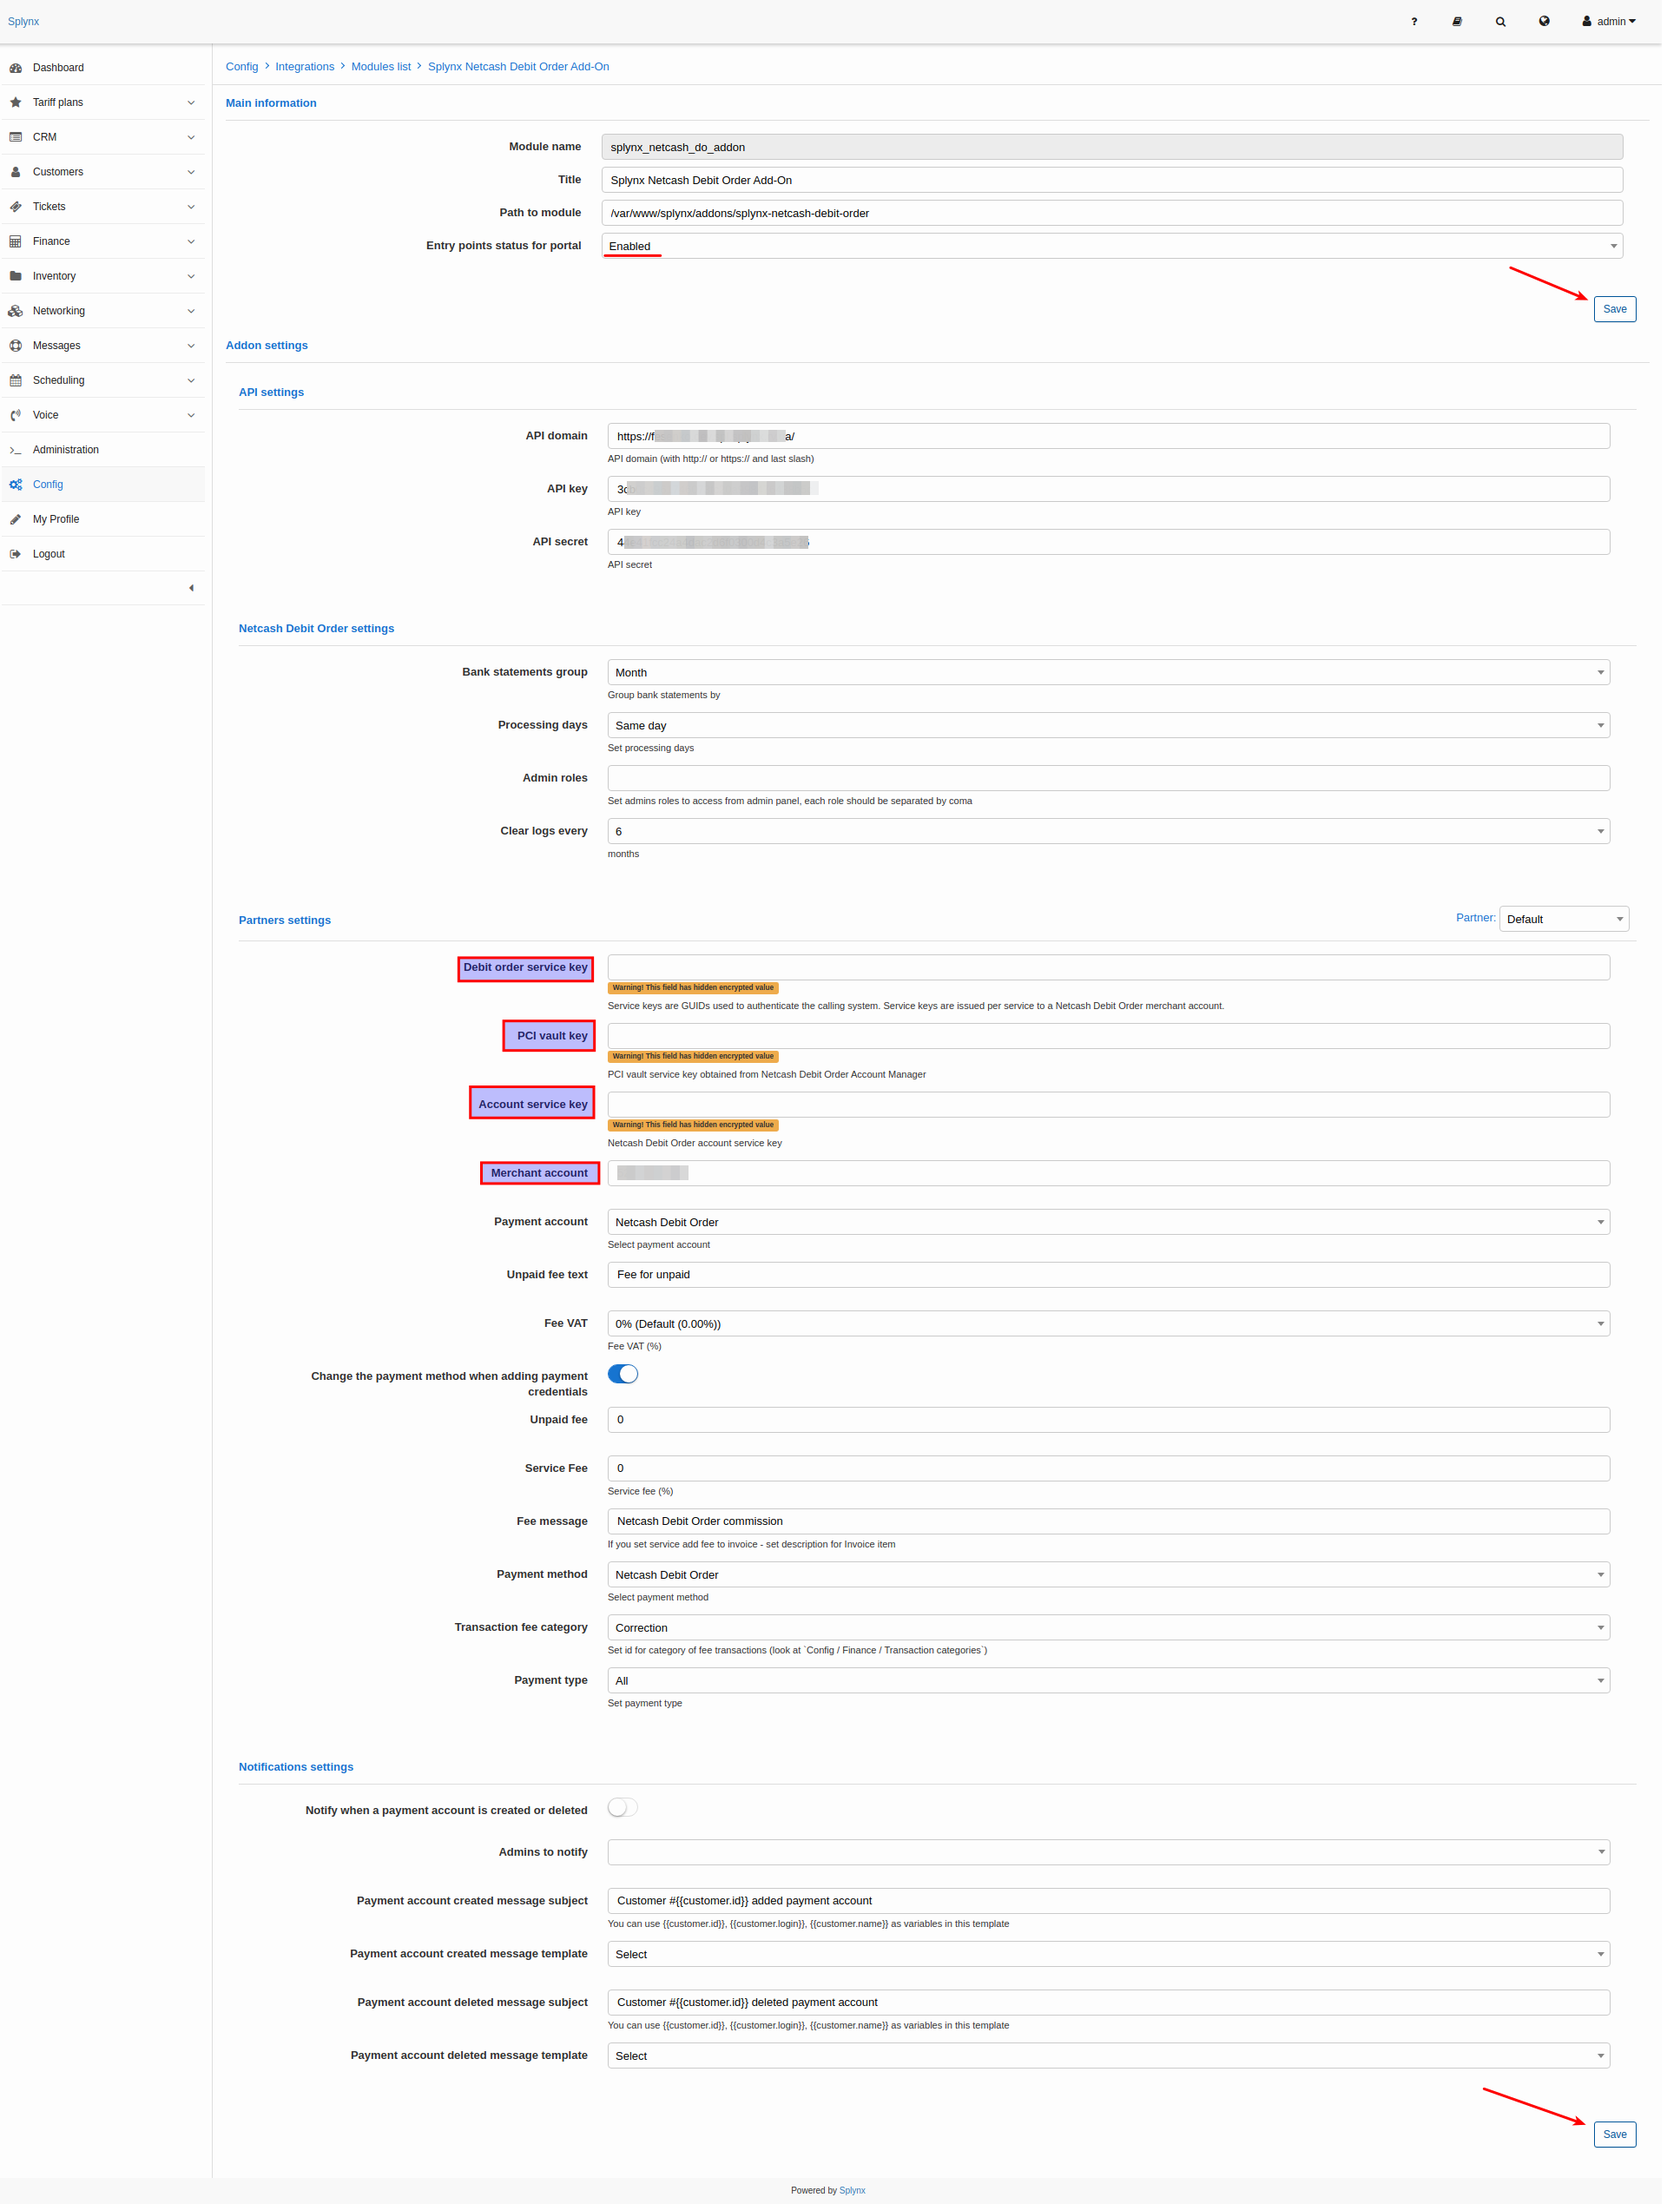
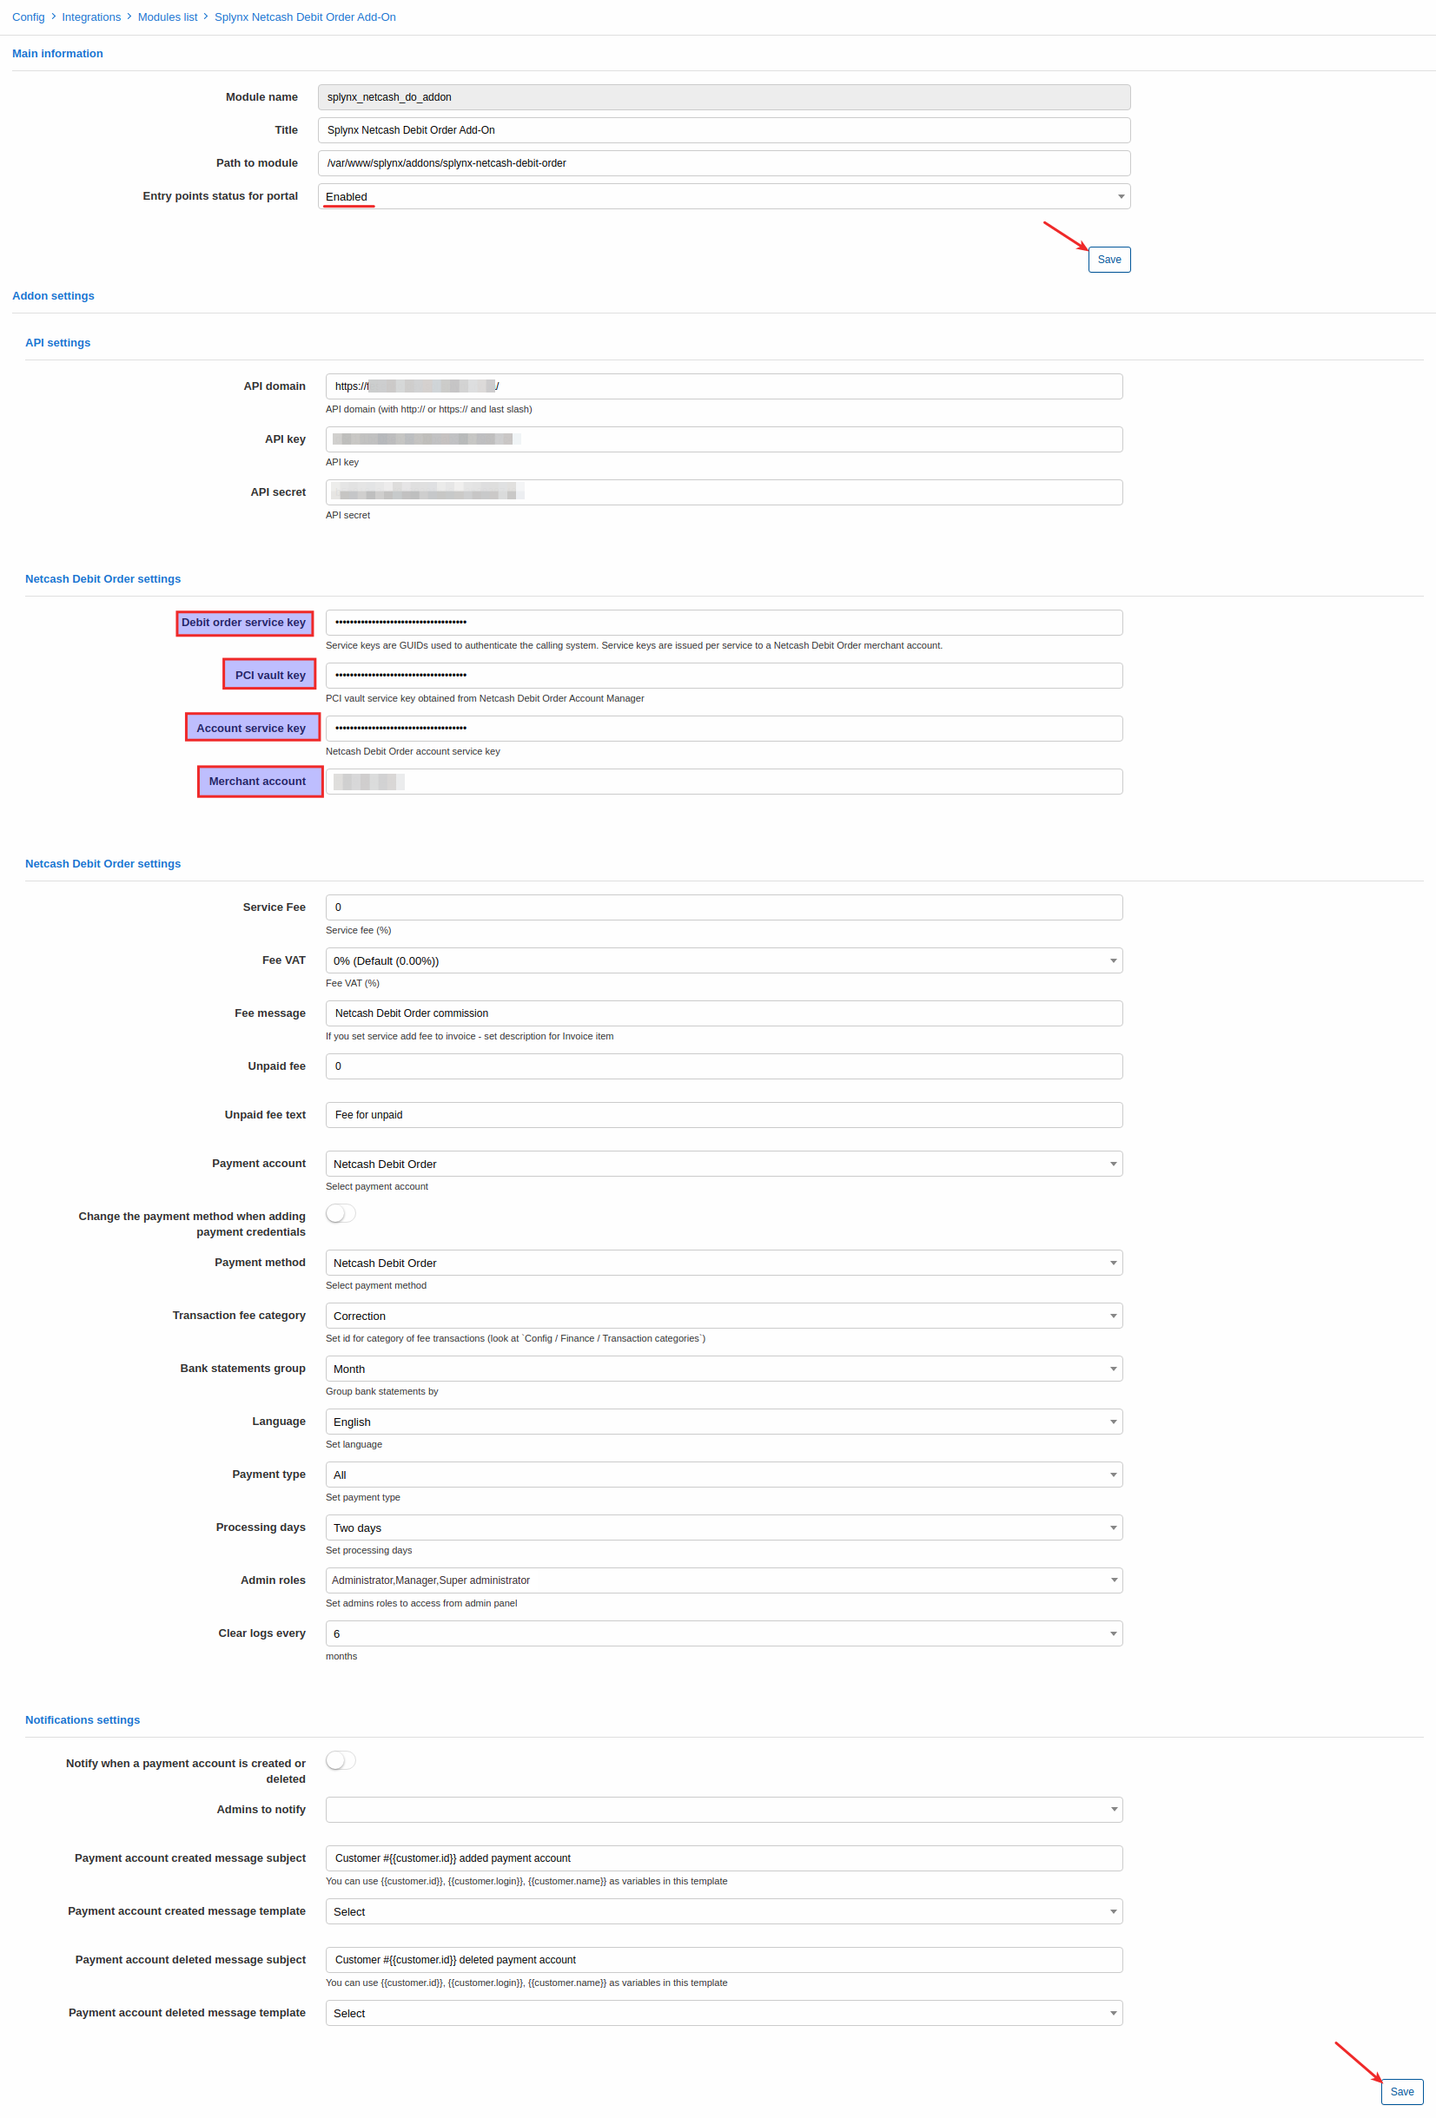
added info about multiselect of admin roles

diff --git a/files/en/payment_systems/netcash_do/netcash_do.md b/files/en/payment_systems/netcash_do/netcash_do.md
@@ -49,7 +49,13 @@ You can also set **service fee** and **unpaid fee** for customers and set which 
 
 The following roles can be specified in the field **admins roles**: `super-administrator`, `administrator`, `manager`, `financial-manager`, `customer-creator`, `engineer` and `technician`.
 
+**Note**: The roles of `super-administrator`, `administrator` and `manager` are selected by default after add-on installation, it means that admin account with any of these roles always has access to `Finance → Netcash Debit Order check payments` menu (account's [permissions](administration/main/admins_and_permissions/admins_and_permissions.md) to **Finance** module and **Netcash Debit Order add-on** are required as well).
+
 ![settings2.1.png](settings_2.1.png)
+
+But if admin account has only `technician` role and this role was not selected in add-on config, the access to `Netcash Debit Order check payments` menu for such admin will be **forbidden**.
+
+[forbidden.png](forbidden.png)
 
 Also, admins can be notified when a customer has created a Netcash payment account. To enable this feature, use the **Notifications settings** provided.
 
